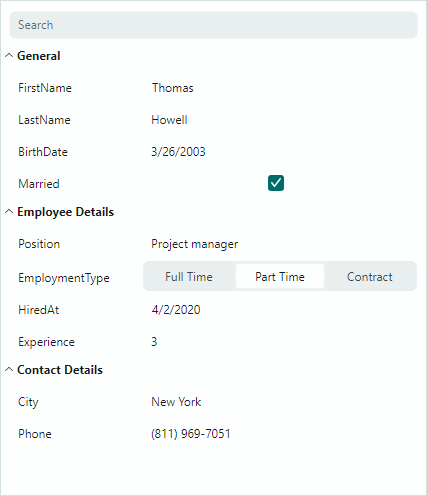
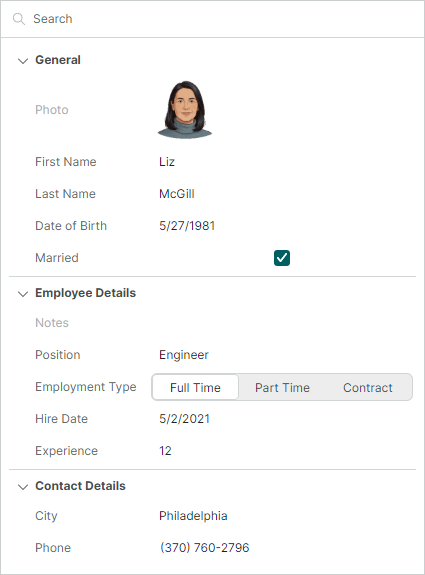
readme: use complete control screenshots instead of cropped thumbnails

diff --git a/readme.md b/readme.md
@@ -83,7 +83,7 @@ Alternatively, open the application once, click **Done**, then go to **System Se
 
 Displays data from an item source as a two-dimensional table, providing rich data shaping and editing functionality.
 
-![thumb-datagrid](docs/images/thumb-datagrid.png) 
+![Data Grid](docs/images/data-grid.png) 
 
 - Large data sources support
 - Unbound data
@@ -105,7 +105,7 @@ Displays data from an item source as a two-dimensional table, providing rich dat
 
 Renders hierarchical data in the form of a tree. Tree List supports multiple data columns, while Tree View is a single-column control.
 
-![thumb-treelist](docs/images/thumb-treelist.png) 
+![Tree List and Tree View](docs/images/treelist.png) 
 
 - Binding to self-referential (flat) and hierarchical data sources
 - Unbound mode (allows you to manually supply data)
@@ -128,7 +128,7 @@ Renders hierarchical data in the form of a tree. Tree List supports multiple dat
 
 An efficient solution for browsing and editing properties of one or more objects.
 
-![thumb-propertygrid](docs/images/thumb-propertygrid.png)  
+![Property Grid](docs/images/propertygrid.png)  
 
 - Automatic generation of rows from public properties of a bound object(s)
 - Manual row creation mode
@@ -147,7 +147,7 @@ An efficient solution for browsing and editing properties of one or more objects
 
 The `CartesianChart`, `PolarChart` and `SmithChart` controls allow you to integrate the most popular interactive charts into your application's UI.
 
-![thumb-chartcontrol](docs/images/thumb-chartcontrol.png) 
+![Charts](docs/images/cartesianchart1.png) 
 
 - Displaying an unlimited number of data series simultaneously.
 - Supported series views: Line, Scatter Line, Point, Area, Step Line, Bar, Range Bar, Candlestick, and more.
@@ -164,7 +164,7 @@ The `CartesianChart`, `PolarChart` and `SmithChart` controls allow you to integr
 
 The Heatmap control allows you to create a two-dimensional [heat map](https://en.wikipedia.org/wiki/Heat_map), a chart that visualizes data using color. The control paints each data point within a 2D "map" with a color that corresponds to a value at this point.
 
-![thumb-chartcontrol](docs/images/thumb-heatmap.png) 
+![Heatmap](docs/images/heatmap-control.png) 
 
 - Custom color encoding
 - Grayscale colorization
@@ -184,7 +184,7 @@ The Heatmap control allows you to create a two-dimensional [heat map](https://en
 
 The menu inspired by the ribbon UI found in Microsoft Office products.
 
-![thumb-ribbon](docs/images/thumb-ribbon.png) 
+![Ribbon](docs/images/ribbon.png) 
 
 - Simplified and Classic views
 - Supported items: small and large buttons, toggle buttons, button groups, sub-menus, and more.
@@ -201,7 +201,7 @@ The menu inspired by the ribbon UI found in Microsoft Office products.
 
 Traditional toolbars and menus for your applications.
 
-![thumb-bars](docs/images/thumb-bars.png) 
+![Toolbars and Menus](docs/images/toolbars.png) 
 
 - Supported toolbar item types: buttons, check buttons, sub-menus, item groups, and more
 - Docking toolbars at the edges of a container
@@ -221,7 +221,7 @@ Traditional toolbars and menus for your applications.
 
 Classic docking interface inspired by the Microsoft Visual Studio IDE.
 
-![thumb-docking](docs/images/thumb-docking.png) 
+![Docking UI](docs/images/docking-ui.png) 
 
 - Dockable panels
 - Documents (embedded dock windows)
@@ -247,7 +247,7 @@ Classic docking interface inspired by the Microsoft Visual Studio IDE.
 
 `Graphics3DControl` can visualize 3D models in your Avalonia applications.
 
-![thumb-docking](docs/images/thumb-graphics3dcontrol.png) 
+![Graphics3DControl](docs/images/graphics3dcontrol.png) 
 
 - API to specify 3D models
 - Simple materials 
@@ -271,7 +271,7 @@ Classic docking interface inspired by the Microsoft Visual Studio IDE.
 
 Simple and advanced editors that allow users to edit almost everything - from text and numbers to date/time values and colors. You can use them as standalone controls, or as in-place editors.
 
-![thumb-editors](docs/images/thumb-editors.png)  
+![Data Editors](docs/images/data-editors.png)  
 
 - ButtonEditor
 - CheckEditor
@@ -290,7 +290,7 @@ Simple and advanced editors that allow users to edit almost everything - from te
 
 A collection of useful controls shipped with the Eremex Controls library allow you to create feature-rich applications.
 
-![thumb-utilitycontrols](docs/images/thumb-utilitycontrols.png) 
+![Utility Controls](docs/images/utility-controls.png) 
 
 - SplitButton
 - MxTabControl
@@ -307,7 +307,7 @@ A collection of useful controls shipped with the Eremex Controls library allow y
 
 A set of platform-agnostic services to display modal and non-modal windows, file dialogs, and custom message boxes, as well as to customize application-wide appearance settings directly from your ViewModels, without referencing any Avalonia window type.
 
-![thumb-appservices](docs/images/thumb-appservices.png) 
+![Application Services](docs/images/app-services-overview.png) 
 
 Services decouple your ViewModels from the underlying UI framework. You can invoke these services through well-defined interfaces to:
 
@@ -347,7 +347,7 @@ The DeltaDesign and Controls3D themes support both Light and Dark color schemes 
 
 | Light Theme Variant | Dark Theme Variant |
 |---|---|
-| ![thumb-lighttheme](docs/images/thumb-lighttheme.png) | ![thumb-darktheme](docs/images/thumb-darktheme.png) |
+| ![Light Theme](docs/images/theme-palette-helios.png) | ![Dark Theme](docs/images/theme-palette-helios-dark.png) |
 
 <!-- | ![thumb-lighttheme2](docs/images/thumb-lighttheme2.png) | ![thumb-darktheme2](docs/images/thumb-darktheme2.png) | -->
 
